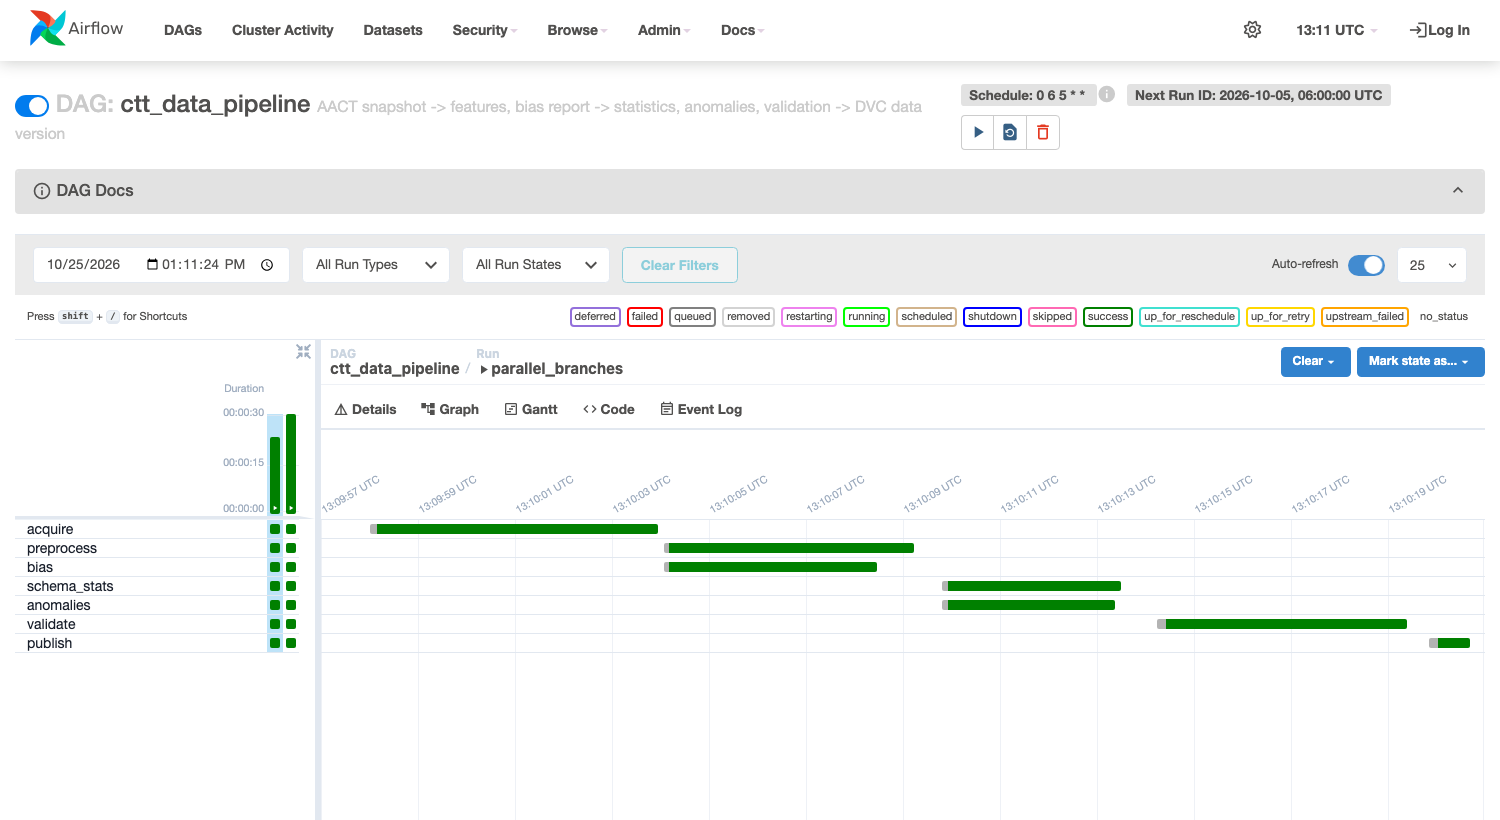
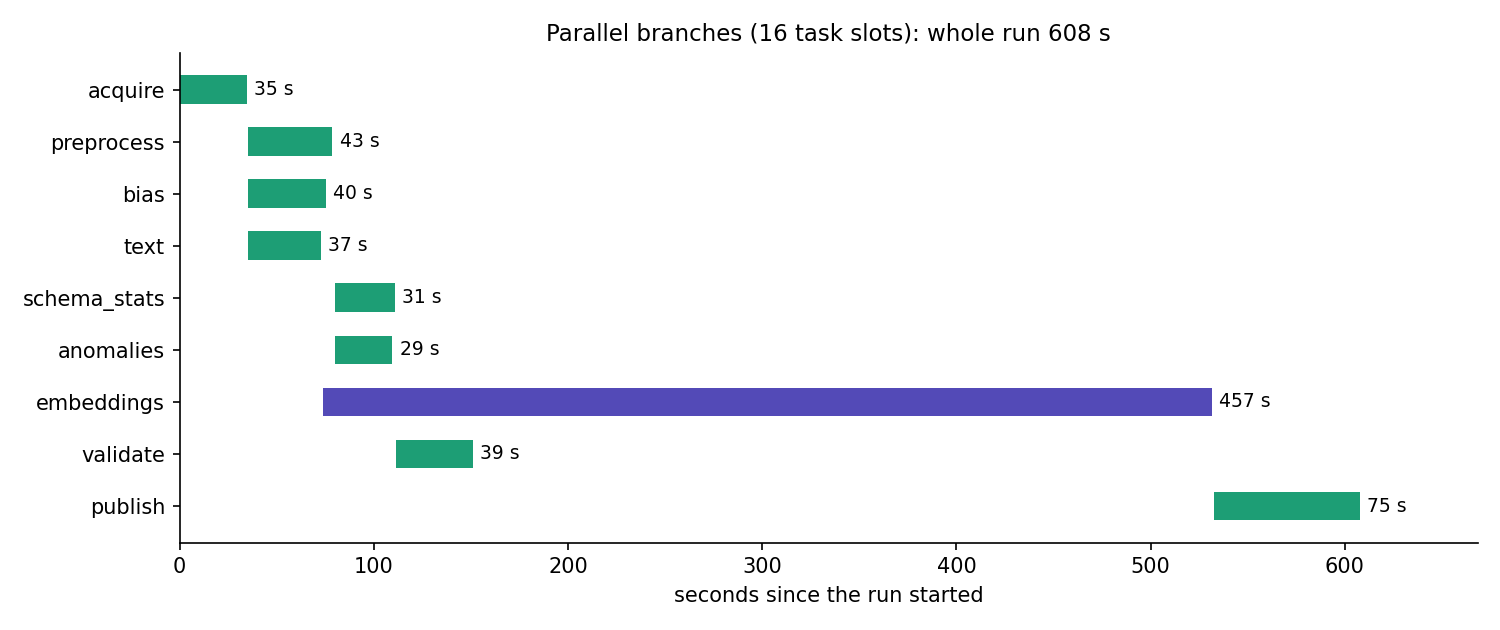
Measure the Gantt optimization on the VM
Sequential (1 slot) vs parallel (16 slots) on a 50,000-trial test snapshot,
on the Compute Engine VM with the Vertex AI embeddings job: 702.5 s vs
607.5 s; every task but publish now finishes inside the GPU job's window.
New charts, and docs/gantt.py draws them from Airflow's task times.

diff --git a/Data-Pipeline/docs/gantt.py b/Data-Pipeline/docs/gantt.py
@@ -1,0 +1,41 @@
+"""Gantt chart of one Airflow DAG run, from its recorded task times.
+
+    airflow tasks states-for-dag-run ctt_data_pipeline <run_id> -o json > run.json
+    python docs/gantt.py run.json "Parallel branches" docs/images/gantt.png
+
+Needs matplotlib (not part of the pipeline image).
+"""
+import datetime as dt
+import json
+import sys
+
+import matplotlib
+matplotlib.use("Agg")
+import matplotlib.pyplot as plt  # noqa: E402
+
+ORDER = ["acquire", "preprocess", "bias", "text", "schema_stats", "anomalies",
+         "embeddings", "validate", "publish"]
+COLORS = {"embeddings": "#534AB7"}
+
+rows = {r["task_id"]: r for r in json.load(open(sys.argv[1]))}
+t = {k: (dt.datetime.fromisoformat(r["start_date"]),
+         dt.datetime.fromisoformat(r["end_date"])) for k, r in rows.items()}
+t0 = min(s for s, _ in t.values())
+total = (max(e for _, e in t.values()) - t0).total_seconds()
+
+tasks = [k for k in ORDER if k in t]
+fig, ax = plt.subplots(figsize=(10, 4.2))
+for i, k in enumerate(tasks):
+    s, e = ((x - t0).total_seconds() for x in t[k])
+    ax.barh(i, e - s, left=s, height=0.55, color=COLORS.get(k, "#1D9E75"))
+    ax.text(e + total * 0.006, i, f"{e - s:.0f} s", va="center", fontsize=9)
+ax.set_yticks(range(len(tasks)), tasks)
+ax.invert_yaxis()
+ax.set_xlabel("seconds since the run started")
+ax.set_xlim(0, total * 1.1)
+ax.set_title(f"{sys.argv[2]}: whole run {total:.0f} s", fontsize=11)
+ax.spines[["top", "right"]].set_visible(False)
+fig.tight_layout()
+fig.savefig(sys.argv[3], dpi=150)
+print(json.dumps({"total": round(total, 1), **{
+    k: round((t[k][1] - t[k][0]).total_seconds(), 1) for k in tasks}}))

diff --git a/Data-Pipeline/docs/pipeline_optimization.md b/Data-Pipeline/docs/pipeline_optimization.md
@@ -6,96 +6,112 @@ what was measured, what was changed and the result.
 
 ## How it was measured
 
-- Same DAG, same machine (Apple laptop), Airflow 2.10.5 with the
-  LocalExecutor on PostgreSQL, so tasks can run at the same time.
-- Placeholder snapshot with 50,000 trials (`acquire.sample_trials: 50000`),
-  structured features from `src/features/structured_features.py`.
-- Each run used a different snapshot and seed, so DVC re-ran every stage
-  (an unchanged stage is skipped and would make a run look faster than it is).
-- Baseline: the default pool limited to 1 slot, so tasks run one after
-  another, the way the first version of the DAG ran them
-  (`acquire >> preprocess >> schema_stats >> validate >> publish`, with bias
-  and anomalies added in a line).
-- Optimized: the same DAG with parallel slots allowed.
+- Airflow 2.10.5 (LocalExecutor on PostgreSQL) on the Compute Engine VM
+  `ctt-airflow` (e2-standard-4), each task in its own copy of the code
+  (`gce/run_task.sh`), data and run state in GCS, BioBERT on a Vertex AI T4.
+- Test snapshot with 50,000 trials (`"sample_trials": 50000` in the trigger
+  config), so every stage has real work to do.
+- Each run used a different snapshot and sample size, so DVC re-ran every
+  stage (an unchanged stage is skipped and would make a run look faster than
+  it is).
+- Baseline: Airflow's default pool set to 1 slot, so tasks run one after
+  another, the way a chained DAG would run them.
+- Optimized: the same DAG with 16 slots, so independent branches run at the
+  same time.
+- The charts are drawn from the task start and end times Airflow recorded
+  for each run (`docs/gantt.py`); Airflow's own Gantt view shows the same.
 
 ## Bottleneck found
 
-The baseline Gantt chart showed every task waiting for the one before it,
-although most of them do not need each other's output:
+The baseline Gantt chart shows every task waiting for the one before it,
+although most of them do not need each other's output, and one task,
+`embeddings`, taking more than half of the run:
 
 | Task | Needs | Sequential run (s) |
 |---|---|---|
-| acquire | nothing | 5.5 |
-| preprocess | raw snapshot | 4.6 |
-| schema_stats | features | 3.3 |
-| bias | raw snapshot only | 3.9 |
-| anomalies | features | 2.8 |
-| validate | features, schema, statistics | 4.8 |
-| publish | everything | 0.6 |
-| **whole run** | | **30.3** |
+| acquire | nothing | 33.1 |
+| preprocess | raw snapshot | 29.7 |
+| text | raw snapshot | 27.5 |
+| schema_stats | features | 23.7 |
+| bias | raw snapshot only | 27.7 |
+| embeddings | text (Vertex AI GPU job) | 391.1 |
+| anomalies | features | 28.0 |
+| validate | features, schema, statistics | 65.6 |
+| publish | everything | 69.0 |
+| **whole run** | | **702.5** |
 
 ![Sequential baseline](images/gantt_sequential_baseline.png)
 
+Most of `embeddings` is waiting: Vertex AI has to provision the T4 machine
+and pull the BioBERT image before the few minutes of GPU work start. In a
+sequential run every other task waits behind it.
+
 ## Change
 
-The DAG now follows the real data dependencies (`dags/ctt_data_pipeline.py`):
+The DAG follows the real data dependencies (`dags/ctt_data_pipeline.py`):
 
 ```
                +--> preprocess --+--> schema_stats --> validate --+
-    acquire ---+                 +--> anomalies -------------------+--> publish
-               +--> bias ------------------------------------------+
+               |                 +--> anomalies -------------------+
+    acquire ---+--> bias ------------------------------------------+--> publish
+               +--> text --> embeddings (Vertex AI GPU) -----------+
 ```
 
+- `text` and `embeddings` need only the raw snapshot, so the GPU job starts
+  right after `acquire` and `text`, and the whole feature and check branch
+  runs while Vertex AI provisions the GPU.
 - `bias` reads only the raw snapshot, so it runs next to `preprocess`.
 - `schema_stats` and `anomalies` both read only the features, so they run
   next to each other.
-- Parallel tasks are safe with DVC: locally DVC serializes its own writes to
-  `dvc.lock`; on Cloud Composer each task runs in its own pod, so
-  `scripts/run_stage.py` merges its stage into the shared `dvc.lock` in GCS
-  with a conditional write that is retried when another task wrote first
-  (tested in `tests/test_orchestration.py`).
+- Parallel tasks are safe with DVC: each task runs in its own copy of the
+  code and merges only its own stage into the shared `dvc.lock` in GCS, with
+  a conditional write that is retried when another task wrote first (tested
+  in `tests/test_orchestration.py`).
 
 ## Result
 
-| Run | Duration (s) |
-|---|---|
-| Sequential baseline | 30.3 |
-| Parallel branches | 23.1 |
+| Run | Whole run (s) | embeddings (s) |
+|---|---|---|
+| Sequential baseline | 702.5 | 391.1 |
+| Parallel branches | 607.5 | 457.4 |
 
-The run is **24% shorter** on the 50,000-trial sample. The remaining
-critical path is `acquire -> preprocess -> schema_stats -> validate ->
-publish`.
+The parallel run is **95 s (14%) shorter**, even though its GPU job happened
+to take 66 s longer (Vertex AI provisioning time varies between runs). With
+the same GPU time in both runs it would be about 541 s, **23% shorter**. In
+the parallel run every other task has finished by 151 s, inside the GPU
+job's window: the run now takes `acquire + text + embeddings + publish`, and
+the feature, bias and check work costs no extra time.
 
 ![Parallel branches](images/gantt_parallel_branches.png)
 
 ## Notes for the real AACT data
 
-- On the full AACT export (about 500,000 trials) `bias`, `preprocess` and
-  `validate` take minutes rather than seconds, so running `bias` next to
-  `preprocess` saves more in absolute time.
-- On this sample about 2 to 3 seconds of every task is fixed start-up cost
-  (importing pandas and Great Expectations, DVC hashing its inputs), which
-  is why the gain is capped here. It shrinks in relative terms on real data.
+- On the full AACT export (about 500,000 trials) `preprocess`, `bias` and
+  `validate` take minutes rather than seconds, and the GPU job runs much
+  longer, so overlapping the two branches saves more in absolute time.
+- About 25 seconds of every task is fixed cost (copying the code, pulling
+  its inputs from GCS, importing pandas and Great Expectations, pushing its
+  outputs), which caps the gain on small snapshots.
 - A second run on the same snapshot is much faster again: DVC skips every
   stage whose code, data and parameters did not change, and `--pull`
-  restores their outputs from the remote instead of recomputing them.
+  restores their outputs from the remote instead of recomputing them; an
+  unchanged text also means no GPU job at all.
 
 ## Reproduce
 
+On the VM (`./gce/vm.sh` from `Data-Pipeline/`, then in the scheduler
+container through `gcloud compute ssh ctt-airflow`):
+
 ```bash
-# PostgreSQL for Airflow's metadata (the LocalExecutor needs it)
-docker run -d --name airflow-pg -e POSTGRES_USER=airflow \
-  -e POSTGRES_PASSWORD=airflow -e POSTGRES_DB=airflow \
-  -p 127.0.0.1:5433:5432 postgres:16-alpine
-export AIRFLOW__CORE__EXECUTOR=LocalExecutor
-export AIRFLOW__DATABASE__SQL_ALCHEMY_CONN=postgresql+psycopg2://airflow:airflow@127.0.0.1:5433/airflow
-export AIRFLOW__CORE__DAGS_FOLDER=$PWD/dags CTT_RUNNER=local CTT_PYTHON=$PWD/.venv/bin/python
-airflow db migrate && airflow standalone
-# baseline: one task at a time; optimized: parallel slots
-airflow pools set default_pool 1 "sequential"   # then trigger a run
-airflow pools set default_pool 16 "parallel"    # then trigger another run
+cd /opt/ctt-repo/Data-Pipeline/gce/airflow
+alias af='sudo -u ctt docker compose exec -T scheduler airflow'
+af pools set default_pool 1 sequential-baseline
+af dags trigger ctt_data_pipeline -c '{"snapshot": "20261026", "source": "sample", "sample_trials": 50000}'
+# when it has finished:
+af pools set default_pool 16 parallel
+af dags trigger ctt_data_pipeline -c '{"snapshot": "20261027", "source": "sample", "sample_trials": 50001}'
+# then, for each run:
+af tasks states-for-dag-run ctt_data_pipeline <run_id> -o json > run.json
 ```
 
-On macOS, Airflow 2.10's LocalExecutor workers need the `fork` start method
-(the default `spawn` fails with "'QueuedLocalWorker' object has no attribute
-'wrapper'"); Linux and Cloud Composer use `fork` already.
+and draw each chart with `python docs/gantt.py run.json "<title>" <out.png>`.

diff --git a/Data-Pipeline/README.md b/Data-Pipeline/README.md
@@ -303,10 +303,11 @@ discussed in `../docs/bias_report.md`.
 ## 9. Pipeline flow optimization
 
 The Airflow Gantt chart of a sequential run showed every task waiting for the
-previous one, although `bias` needs only the raw snapshot and
+previous one, although `bias` and `text` need only the raw snapshot and
 `schema_stats` and `anomalies` need only the features. Running them in
-parallel shortens the run. Measurements on the VM, both Gantt charts and
-how to reproduce them: `docs/pipeline_optimization.md`.
+parallel, so all of that work now happens while the Vertex AI GPU job runs,
+cut a 50,000-trial run on the VM from 702.5 s to 607.5 s. Both Gantt charts
+and how to reproduce them: `docs/pipeline_optimization.md`.
 
 ## Interface for the acquisition and preprocessing code
 
